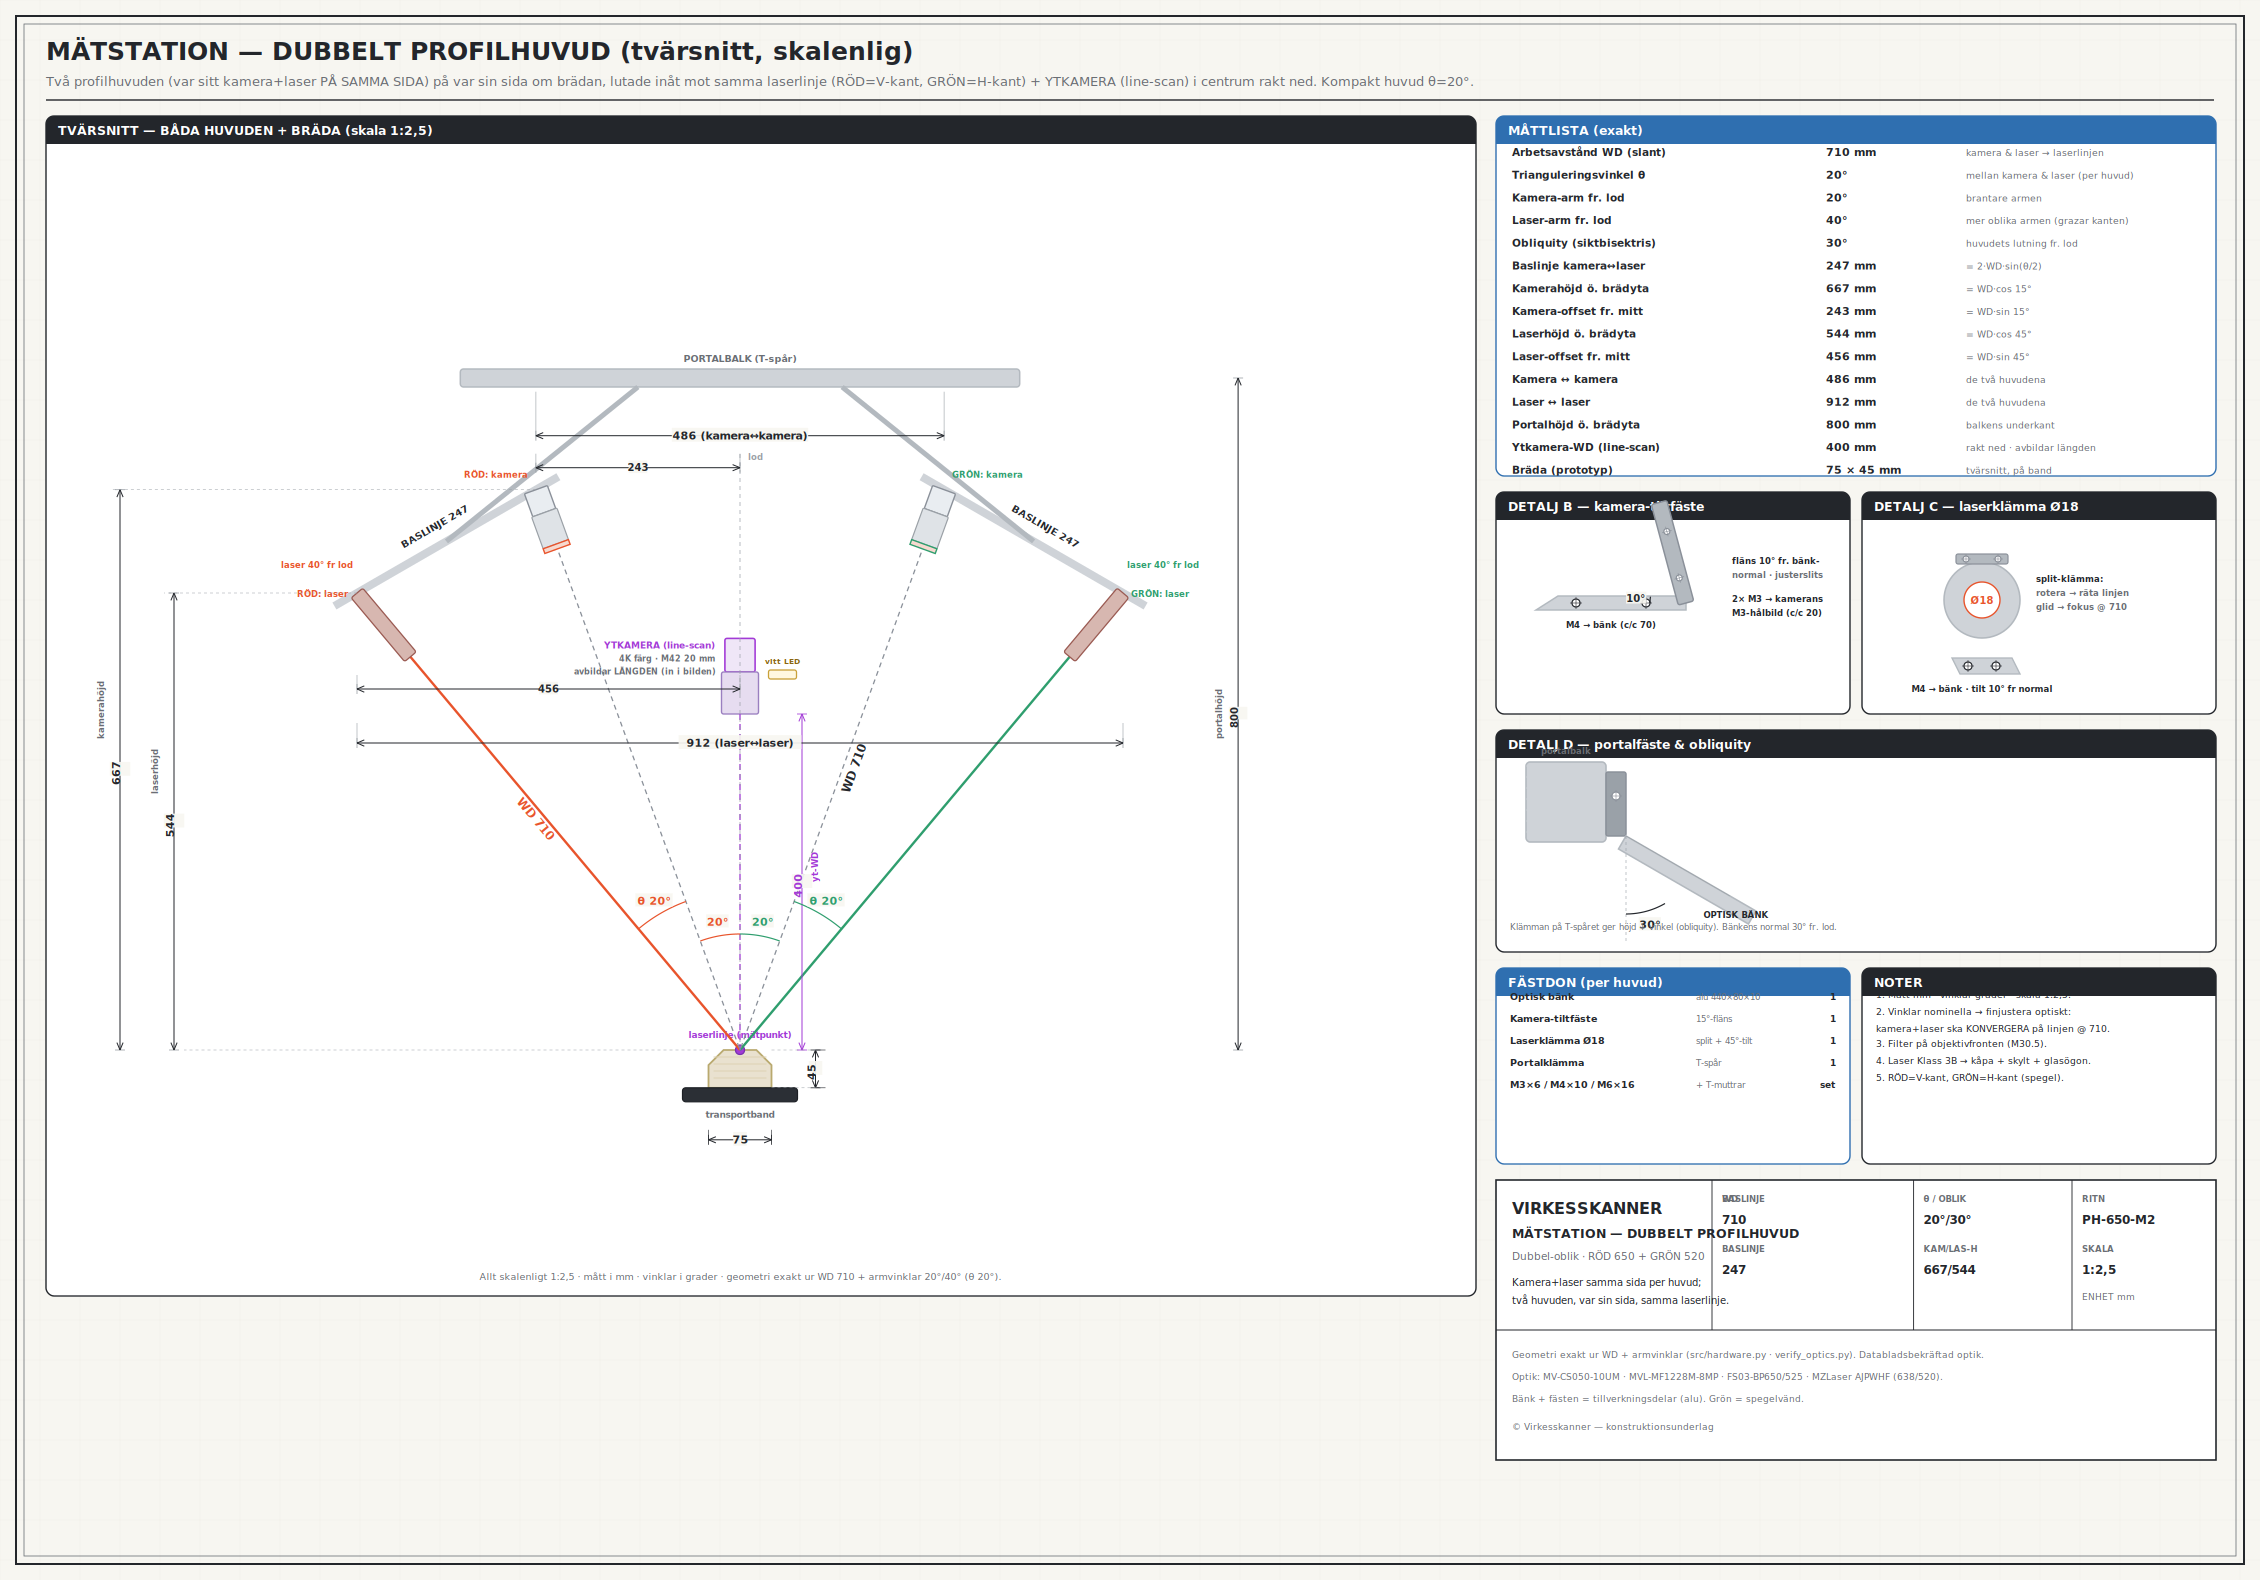
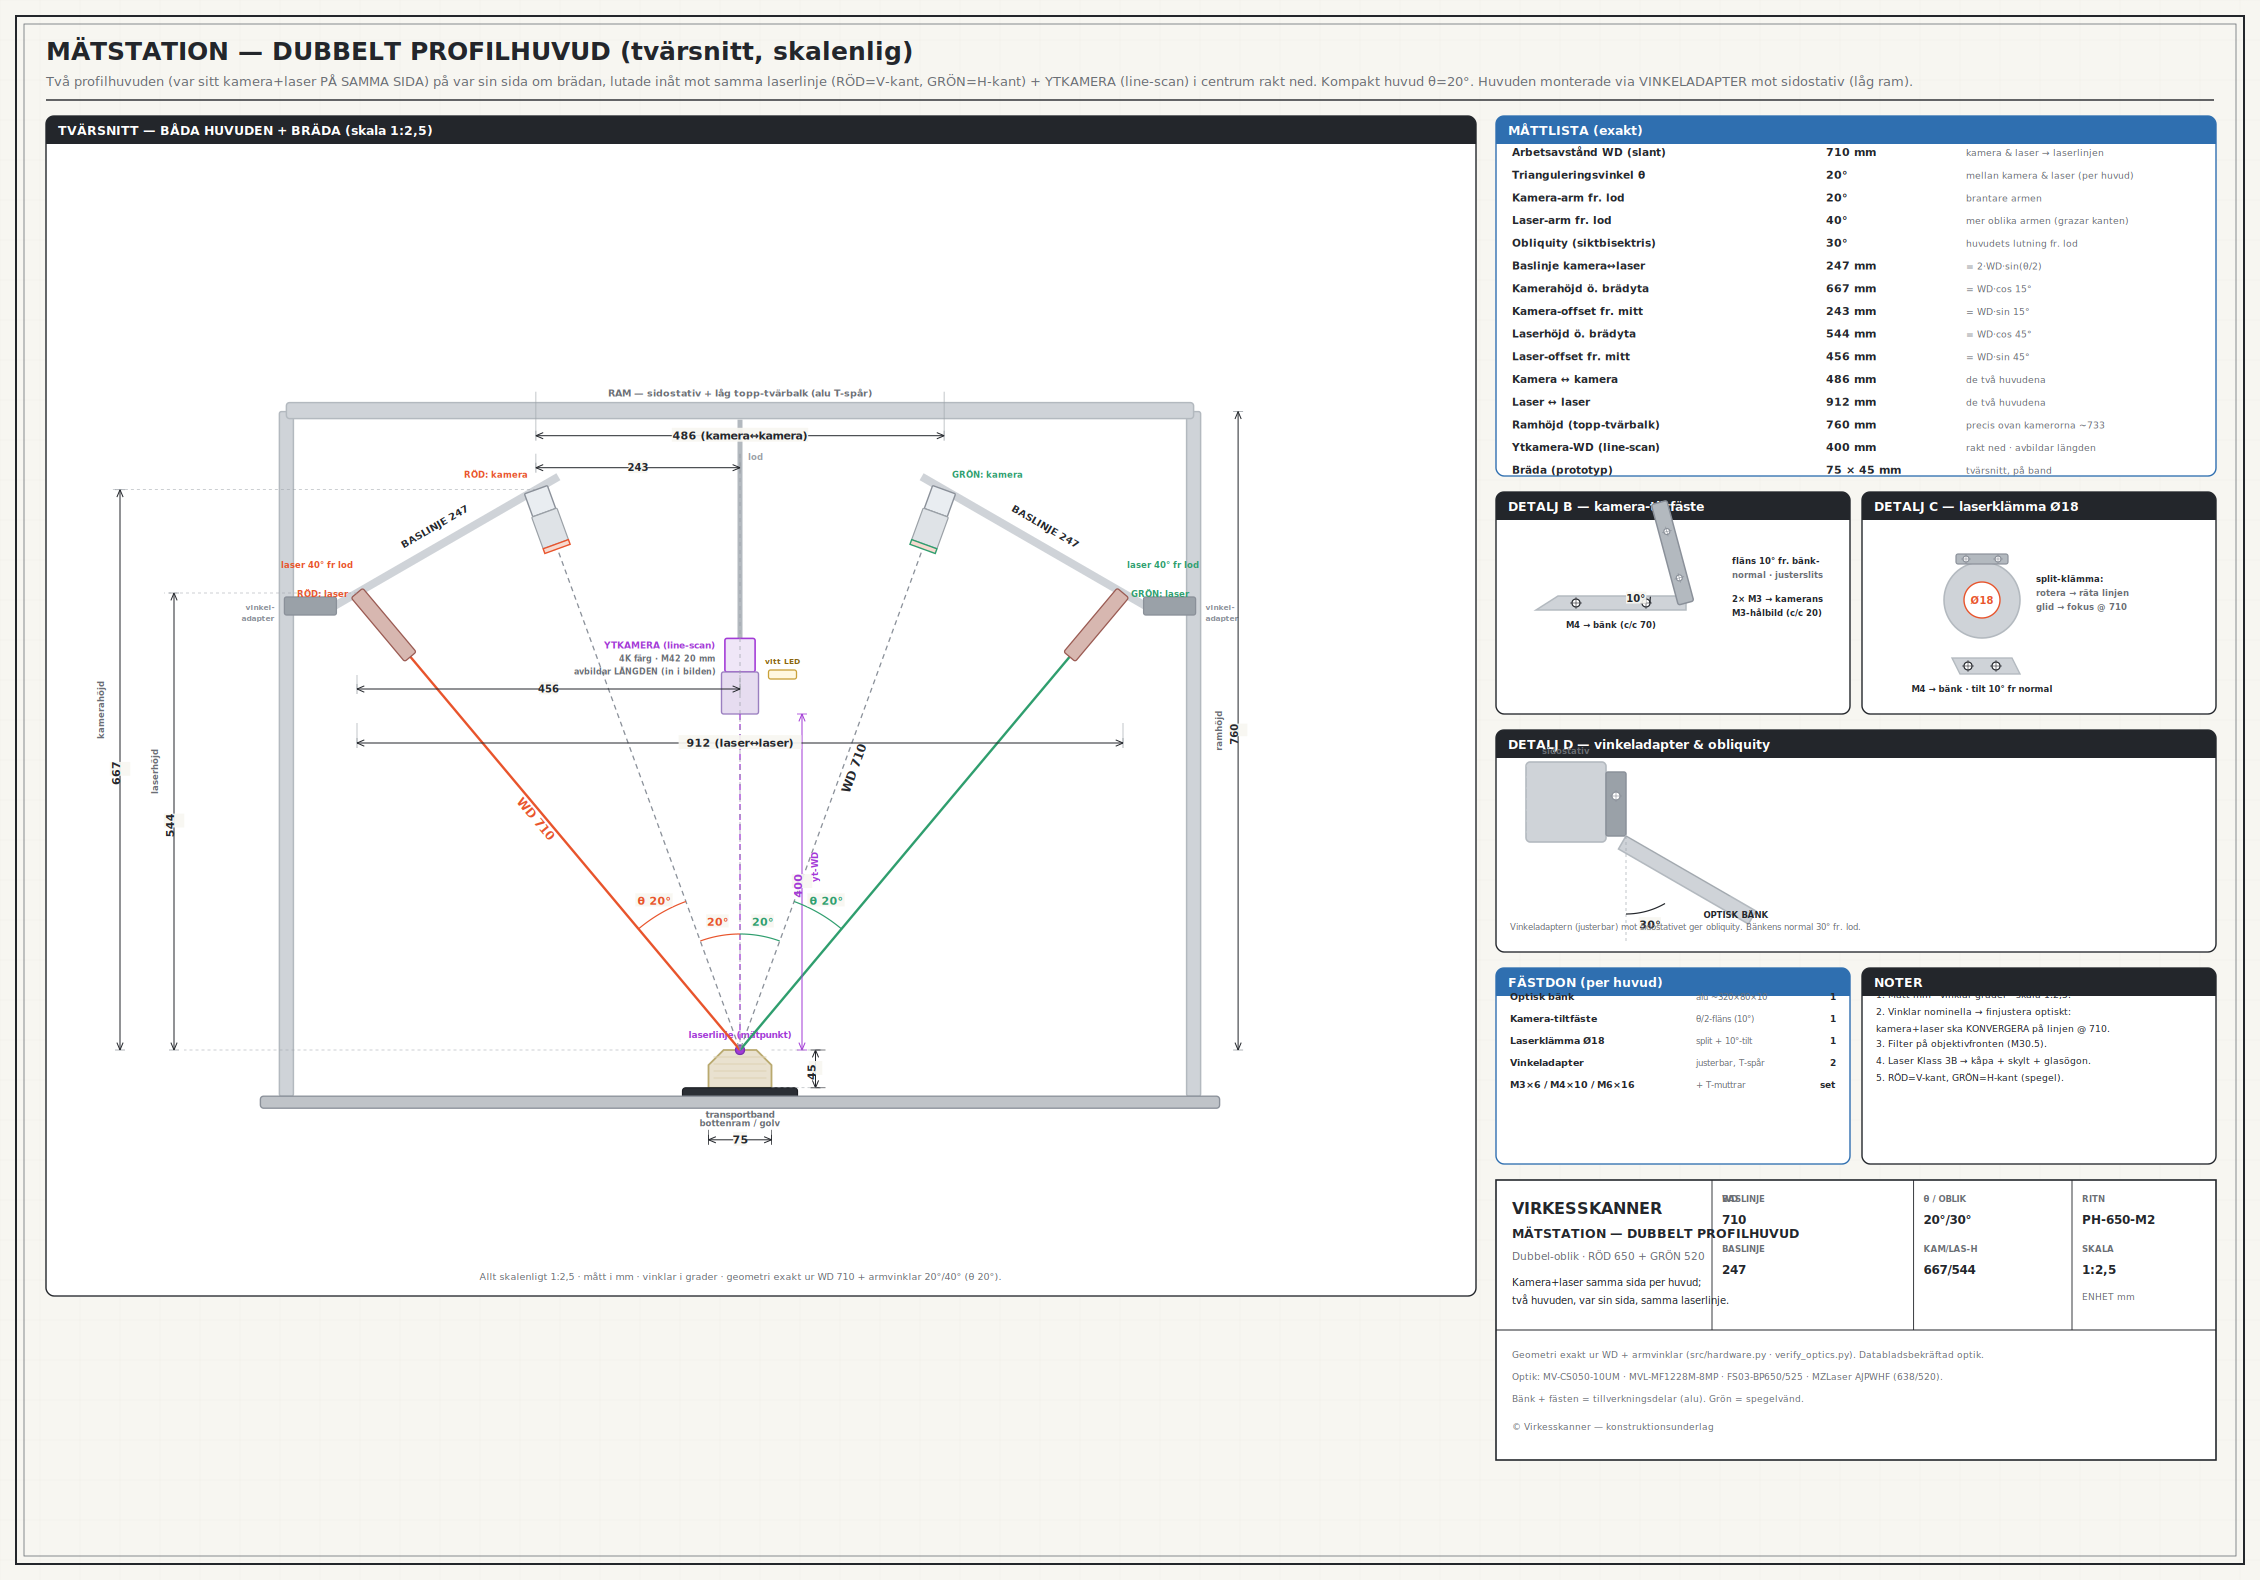
Lägre ram + vinkeladapter-montering (användarens RS-tips)
Ramen var onödigt hög (800 mm portal). Höjden styrs egentligen av OPTIKEN
(WD 710 + obliquity → kameror @ 667 mm), så man kommer inte under ~700 mm
utan att ändra WD. Men monteringen förbättras: huvudena monteras nu via
VINKELADAPTER (justerbar vinkelkoppling, T-spår — RS-typ) direkt mot två
SIDOSTATIV, i stället för hög portal + långa nedhäng. Topp-tvärbalk sänkt
800→760 (precis ovan kamerorna) och bär bara ytkameran.

- GA: sidostativ ±540 + bottenram + låg topp-tvärbalk; vinkeladaptrar
  vid bänkarnas yttre ände; ytkamera-bärstag. Måttlista 'Ramhöjd 760',
  fästdon: 2× vinkeladapter + sidostativ. DETALJ D omdöpt. Stale comments
  rättade (667/243/544/456).

diff --git a/tools/draw_head_mech.py b/tools/draw_head_mech.py
@@ -15,14 +15,15 @@ CAM_A = 20.0                      # kamera-arm, vinkel från lod  (kompakt: θ=2
 LAS_A = 40.0                      # laser-arm (mer oblik), vinkel från lod
 THETA = LAS_A - CAM_A             # trianguleringsvinkel = 30°
 OBL   = (CAM_A + LAS_A) / 2       # huvudets obliquity (siktbisektris) = 30°
-camZ = round(WD * math.cos(math.radians(CAM_A)))    # 686  kamerahöjd ö. brädyta
-camY = round(WD * math.sin(math.radians(CAM_A)))    # 184  kamera-offset fr. mitt
-lasZ = round(WD * math.cos(math.radians(LAS_A)))    # 502  laserhöjd
-lasY = round(WD * math.sin(math.radians(LAS_A)))    # 502  laser-offset
+camZ = round(WD * math.cos(math.radians(CAM_A)))    # 667  kamerahöjd ö. brädyta
+camY = round(WD * math.sin(math.radians(CAM_A)))    # 243  kamera-offset fr. mitt
+lasZ = round(WD * math.cos(math.radians(LAS_A)))    # 544  laserhöjd
+lasY = round(WD * math.sin(math.radians(LAS_A)))    # 456  laser-offset
 BASE = round(2 * WD * math.sin(math.radians(THETA / 2)))   # 368  baslinje kamera↔laser
 CAMCAM = 2 * camY                  # 368  kamera↔kamera (de två huvudena)
 LASLAS = 2 * lasY                  # 1004 laser↔laser
-PORTZ  = 800                       # portalbalkens underkant ö. brädyta
+PORTZ  = 760                       # ram-topp ö. brädyta (precis ovan kamerorna ~733)
+UPX    = 540                        # sidostativens offset (utanför lasrarna ±456)
 BW, BT = 75, 45                    # bräda bredd × tjocklek
 CAM_L, CAM_W = 29, 29; LENS_L, LENS_D = 40, 32; FILT_L, FILT_D = 6, 32; LAS_L, LAS_D = 99, 18
 
@@ -91,7 +92,7 @@ add('</g>')
 rect(16, 16, W-32, H-32, "none", INK, 2); rect(24, 24, W-48, H-48, "none", MUTED, 0.8)
 txt(46, 60, "MÄTSTATION — DUBBELT PROFILHUVUD  (tvärsnitt, skalenlig)", 25, "start", INK, 700, SANS)
 txt(46, 86, "Två profilhuvuden (var sitt kamera+laser PÅ SAMMA SIDA) på var sin sida om brädan, lutade inåt mot samma laserlinje "
-            "(RÖD=V-kant, GRÖN=H-kant) + YTKAMERA (line-scan) i centrum rakt ned. Kompakt huvud θ=20°.", 13, "start", MUTED, 400, SANS)
+            "(RÖD=V-kant, GRÖN=H-kant) + YTKAMERA (line-scan) i centrum rakt ned. Kompakt huvud θ=20°. Huvuden monterade via VINKELADAPTER mot sidostativ (låg ram).", 13, "start", MUTED, 400, SANS)
 line(46, 100, W-46, 100, INK, 1.4)
 
 # =================================================================== HUVUD-GA (skalenlig)
@@ -114,10 +115,16 @@ beltY = bBL[1]
 rect(bL[0]-26, beltY, (bR[0]-bL[0])+52, 14, BLACK, "#1c1f24", 1.2, 3)
 txt(Ox, beltY+30, "transportband", 9, "middle", MUTED, 700)
 circ(Ox, Oy, 4.5, PURP, "#7a2fb0", 1.3); txt(Ox, Oy-12, "laserlinje (mätpunkt)", 9, "middle", PURP, 700)
-# ---- portalbalk ----
+# ---- RAM: två sidostativ (alu T-spår) + låg topp-tvärbalk (bär ytkameran) ----
 pby = WS(0, PORTZ)[1]
-rect(WS(-camY-90, 0)[0], pby-9, WS(camY+90,0)[0]-WS(-camY-90,0)[0], 18, ALU, ALU2, 1.5, 3)
-txt(Ox, pby-16, "PORTALBALK (T-spår)", 9.5, "middle", MUTED, 700)
+baseY = WS(0, -55)[1]
+for sgn in (-1, 1):
+    ux = Ox + sgn*UPX*S
+    rect(ux-7, pby, 14, baseY-pby, ALU, ALU2, 1.5, 2)          # sidostativ (lodrätt)
+rect(Ox-UPX*S, pby-9, 2*UPX*S, 16, ALU, ALU2, 1.5, 3)           # topp-tvärbalk
+txt(Ox, pby-15, "RAM — sidostativ + låg topp-tvärbalk (alu T-spår)", 9.5, "middle", MUTED, 700)
+rect(Ox-UPX*S-26, baseY, 2*UPX*S+52, 12, "#bfc3c8", "#8a9099", 1.4, 3)   # bottenplatta
+txt(Ox, baseY+30, "bottenram / golv", 8.5, "middle", MUTED, 700)
 # ---- per huvud: kamera + laser + bänk + strålar ----
 def head(sign, col, name):
     cam = WS(sign*camY, camZ); las = WS(sign*lasY, lasZ)
@@ -128,8 +135,12 @@ def head(sign, col, name):
     ux, uy = (las[0]-cam[0]), (las[1]-cam[1]); bl = math.hypot(ux,uy); ux,uy = ux/bl, uy/bl
     p_a = (cam[0]-ux*ext, cam[1]-uy*ext); p_b = (las[0]+ux*ext, las[1]+uy*ext)
     line(p_a[0], p_a[1], p_b[0], p_b[1], ALU, 8)
-    mid = ((cam[0]+las[0])/2, (cam[1]+las[1])/2)
-    line(mid[0], mid[1], Ox+sign*camY*S*0.5, pby+9, ALU2, 5)         # stag upp till portal
+    # VINKELADAPTER: bänkens yttre ände monteras i vinkel direkt mot sidostativet
+    upx_s = Ox + sign*UPX*S
+    line(p_b[0], p_b[1], upx_s, p_b[1], ALU2, 7)                     # kort koppling till stativ
+    rect(min(p_b[0],upx_s)-2, p_b[1]-9, abs(upx_s-p_b[0])+4, 18, ALU3, STEEL, 1.3, 2)
+    txt(upx_s+sign*12, p_b[1]+4, "vinkel-", 7.5, "start" if sign>0 else "end", STEEL, 700)
+    txt(upx_s+sign*12, p_b[1]+15, "adapter", 7.5, "start" if sign>0 else "end", STEEL, 700)
     # rikta-enhetsvektorer mot O
     def U(p): d=math.hypot(Ox-p[0], Oy-p[1]); return ((Ox-p[0])/d,(Oy-p[1])/d)
     uc, ul = U(cam), U(las)
@@ -159,6 +170,7 @@ txt(glas[0]+8, glas[1]+4, "GRÖN: laser", 8.5, "start", GRN, 700)
 SURF_WD = 400
 lc = WS(0, SURF_WD)                                   # rakt över brädmitten, höjd 400
 lcw, lcl, lld, lll = 36, 40, 44, 50                   # kamera-hus + M42-objektiv (mm)
+line(Ox, pby+8, lc[0], lc[1]-(lcl+lll)*S, ALU2, 5)   # bär-stag från topp-tvärbalk ned till ytkameran
 add(f'<g transform="translate({lc[0]:.1f},{lc[1]:.1f})">')
 rect(-lcw*S/2, -(lcl+lll)*S, lcw*S, lcl*S, "#efe6f7", PURP, 1.6, 2)        # kamera-hus
 rect(-lld*S/2, -lll*S, lld*S, lll*S, "#e6dcf0", "#9a7fc0", 1.4, 2)         # M42-objektiv
@@ -206,7 +218,7 @@ hdim(bL[0], bR[0], beltY+52, f"{BW}", INK, 11, ext=10)
 vdim(bR[1], bBR[1], bR[0]+44, f"{BT}", INK, 11, ext=10)
 line(bR[0], bR[1], bR[0]+50, bR[1], DIMC, 0.5, "3 3"); line(bBR[0], bBR[1], bR[0]+50, bBR[1], DIMC, 0.5, "3 3")
 # portalhöjd
-vdim(Oy, pby, gcam[0]+int(camY*S)+90, f"{PORTZ}", DIMC, 10); txt(gcam[0]+int(camY*S)+74, (Oy+pby)/2, "portalhöjd", 8.5, "middle", MUTED, 700, rot=-90)
+vdim(Oy, pby, gcam[0]+int(camY*S)+90, f"{PORTZ}", DIMC, 10); txt(gcam[0]+int(camY*S)+74, (Oy+pby)/2, "ramhöjd", 8.5, "middle", MUTED, 700, rot=-90)
 txt(Ox, PY+PH-16, f"Allt skalenligt 1:2,5 · mått i mm · vinklar i grader · geometri exakt ur WD 710 + armvinklar {CAM_A:.0f}°/{LAS_A:.0f}° (θ {THETA:.0f}°).", 9.5, "middle", MUTED, 400)
 
 # =================================================================== HÖGER: MÅTT-TABELL
@@ -225,7 +237,7 @@ tab = [
     ("Laser-offset fr. mitt", f"{lasY} mm", "= WD·sin 45°"),
     ("Kamera ↔ kamera", f"{CAMCAM} mm", "de två huvudena"),
     ("Laser ↔ laser", f"{LASLAS} mm", "de två huvudena"),
-    ("Portalhöjd ö. brädyta", f"{PORTZ} mm", "balkens underkant"),
+    ("Ramhöjd (topp-tvärbalk)", f"{PORTZ} mm", "precis ovan kamerorna ~733"),
     ("Ytkamera-WD (line-scan)", f"{400} mm", "rakt ned · avbildar längden"),
     ("Bräda (prototyp)", f"{BW} × {BT} mm", "tvärsnitt, på band"),
 ]
@@ -262,7 +274,7 @@ detbracket(CXr+366, 492, 354, 222, "DETALJ C — laserklämma Ø18", INK, d_las)
 # portalfäste
 def d_port(x, y):
     mx, my = x+90, y+92
-    rect(mx-60, my-60, 80, 80, ALU, ALU2, 1.6, 4); txt(mx-20, my-68, "portalbalk", 8.5, "middle", MUTED, 700)
+    rect(mx-60, my-60, 80, 80, ALU, ALU2, 1.6, 4); txt(mx-20, my-68, "sidostativ", 8.5, "middle", MUTED, 700)
     for s in range(int(my-56), int(my+12), 11): line(mx-60, s, mx-38, s, HATCH, 0.6)
     rect(mx+20, my-50, 20, 64, ALU3, STEEL, 1.5, 2); hole(mx+30, my-26, 4, STEEL)
     add(f'<g transform="translate({mx+40},{my+14}) rotate(30)"><rect x="0" y="0" width="150" height="15" fill="{ALU}" stroke="{ALU2}" stroke-width="1.6"/></g>')
@@ -270,13 +282,13 @@ def d_port(x, y):
     line(mx+40, my+14, mx+40, my+120, DIMC, 0.6, "3 3")
     line(mx+40, my+14, mx+40+120*math.cos(math.radians(30)), my+14+120*math.sin(math.radians(30)), DIMC, 0.6)
     adim(mx+40, my+14, 78, 90, 60, f"{OBL:.0f}°", INK, 11)
-    txt(x+14, y+200, "Klämman på T-spåret ger höjd + vinkel (obliquity). Bänkens normal 30° fr. lod.", 8.5, "start", MUTED, 400)
-detbracket(CXr, 730, CWr, 222, "DETALJ D — portalfäste & obliquity", INK, d_port)
+    txt(x+14, y+200, "Vinkeladaptern (justerbar) mot sidostativet ger obliquity. Bänkens normal 30° fr. lod.", 8.5, "start", MUTED, 400)
+detbracket(CXr, 730, CWr, 222, "DETALJ D — vinkeladapter & obliquity", INK, d_port)
 
 # =================================================================== HÖGER: FÄSTDON + NOTER + HUVUD
 panel(CXr, 968, 354, 196, "FÄSTDON (per huvud)", BLUE)
-parts = [("Optisk bänk", "alu 440×80×10", "1"), ("Kamera-tiltfäste", "15°-fläns", "1"),
-         ("Laserklämma Ø18", "split + 45°-tilt", "1"), ("Portalklämma", "T-spår", "1"),
+parts = [("Optisk bänk", "alu ~320×80×10", "1"), ("Kamera-tiltfäste", "θ/2-fläns (10°)", "1"),
+         ("Laserklämma Ø18", "split + 10°-tilt", "1"), ("Vinkeladapter", "justerbar, T-spår", "2"),
          ("M3×6 / M4×10 / M6×16", "+ T-muttrar", "set")]
 yy = 1000
 for nm, sp, q in parts:
